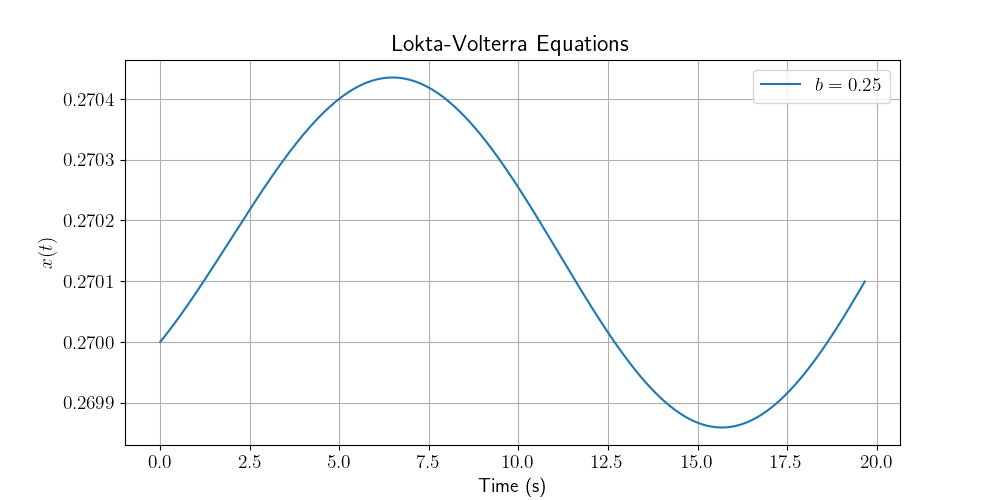
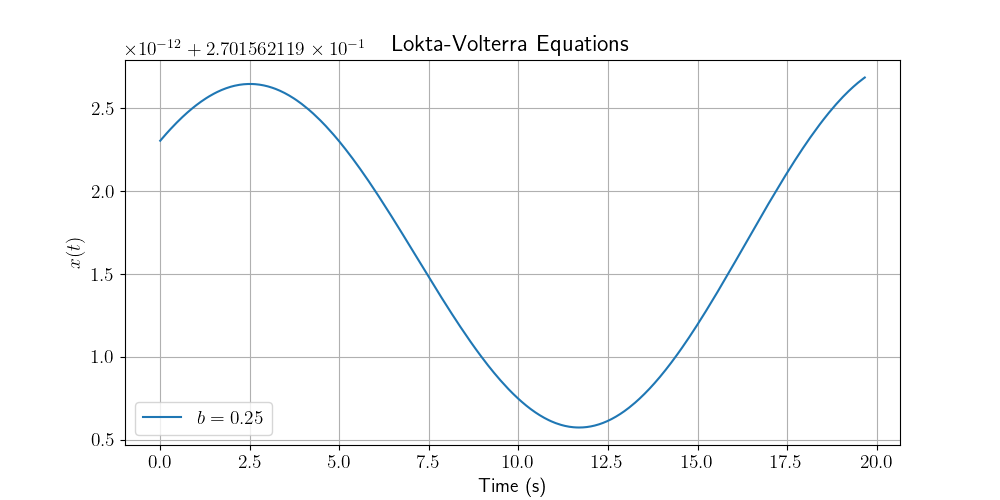
Generalised numerical shooting for any order ODE

diff --git a/numerical_methods.py b/numerical_methods.py
@@ -16,9 +16,7 @@ For log error graph, use log space for time
 
 import matplotlib.pyplot as plt
 import numpy as np
-
-
-plt.rcParams.update({"text.usetex": True, 'font.size': 14}) # Use Latex fonts for all matplotlib.pyplot plots
+from scipy.optimize import fsolve
 
 
 def graph_format(x_label, y_label, title, filename):
@@ -30,6 +28,7 @@ def graph_format(x_label, y_label, title, filename):
         title (string): title of plot
         filename (string): name given to saved .png plot
     """
+    
     
     plt.grid()
     plt.title(title)
@@ -71,6 +70,7 @@ def eurler_step(f, x, t, h):
         float: approximation for next x
         float: next timestep 
     """
+    
     if type(x) == np.float64:
         x = [x]
     
@@ -168,12 +168,12 @@ def solve_to(f, x0, t1, t2, h, method, deltat_max=0.5):
         array: approximation of ODE solution
         array: timestpes of ODE solution
     """
-    
+        
     
     if h > deltat_max:
         raise ValueError("Given step-size exceeds maximum step-size")
     
-    
+
     if isinstance(x0, (int, float)):
         x0 = [x0]
     elif (x0, (list, np.array)):
@@ -188,7 +188,7 @@ def solve_to(f, x0, t1, t2, h, method, deltat_max=0.5):
         print(f"Function and initial condition dimesions do not match")
         quit()
       
-        
+          
     no_steps = int((t2 - t1)/h)
     t = np.zeros(no_steps)
     t[0], t[-1] = t1, t2
@@ -209,7 +209,8 @@ def solve_to(f, x0, t1, t2, h, method, deltat_max=0.5):
                     x_new, t_new = eurler_step(f, args, t[i], h)
                     for k in range(len(x_new)):
                         x[k][i+1] = x_new[k]
-                    t[i+1] = t_new 
+                    t[i+1] = t_new
+                 
                           
         case "RK4First":
             x = np.zeros(len(t))
@@ -236,3 +237,63 @@ def solve_to(f, x0, t1, t2, h, method, deltat_max=0.5):
                     
     return x, t
 
+
+def shooting(ode, x0, period, phase, method="Euler"):
+    """Numerical shooting to solve for ODE limit cycles
+
+    Args:
+        ode (function): ODE to be solved. lambda t, x_1, ..., x_n : f(x_1, ..., x_n) 
+        x0 (float, array-like): Initial condition guess x_0 = a, or vector x = [a_1, ..., a_n]
+        period (float): Period guess 
+        phase (function): Phase-condition. lambda p (= x1, ..., x_n): f(x_1, ..., x_n)
+        method (string, optional): Method used to solve ODE. Defaults to "Euler". 
+
+    Returns:
+        array: solution to ODE with found limit cycle conditions
+        array: timesteps of ODE solution
+        array: conditions of limit cycle (as seen from output)
+    """
+    
+    
+    try:
+        ode(0, *x0)
+    except TypeError:
+        print(f"Function and initial condition dimesions do not match")
+        quit()
+        
+        
+    if isinstance(x0, (int, float)):
+        x0 = [x0]
+    elif (x0, (list, np.array)):
+        x0 = x0
+    else:
+        raise TypeError("x0 is incorrect data type")
+        
+        
+    def root_ode(u):
+        x0 = u[0:-1]
+        t = u[-1]
+        sols, time = solve_to(ode, x0, 0, t, 0.01, method)
+        f = np.zeros(len(sols))
+        
+        for ind, sol in enumerate(sols):
+            f[ind] = sol[0] - sol[-1]
+        
+        p = np.array(phase(x0))
+        
+        return np.append(f, p)
+    
+    
+    x0 = x0 + [period]    
+    x0, info, ier, msg = fsolve(root_ode, x0, full_output=True)
+    period = x0[-1]
+    
+    if ier == 1:
+        print(f"Root finder found the solution x={x0} after {info['nfev']} function calls")         
+    else:
+        print(f"Root finder failed with error message: {msg}")
+        return
+    
+    x, t = solve_to(ode, x0[0:-1], 0, period, 0.01, method)
+    
+    return x, t, x0

diff --git a/week15.py b/week15.py
@@ -20,6 +20,9 @@ import matplotlib.pyplot as plt
 from scipy.optimize import fsolve
 
 
+plt.rcParams.update({"text.usetex": True, 'font.size': 14}) # Use Latex fonts for all matplotlib.pyplot plots
+
+
 def week15_excersises():
     
     def lokta_volterra(t, x, y, b):
@@ -45,28 +48,17 @@ def week15_excersises():
     
     # I.C (0.39, 0.30) produces limit cycle period of ~19s (b = 0.25)
     
-    def num_shooting(u):
-        x, y, t = u
+    x0 = [0.39, 0.30]
+    
+    def phase(p):
         a, d = 1, 0.1
-        b = 0.2
+        x, y = p
+        p = x*(1 - x) - (a*x*y)/(d + x)
         
-        sol, time = nm.solve_to(lambda t, x, y: lokta_volterra(t, x, y, 0.25), (x , y), 0, t, 0.01, "Euler")
-        f1 = sol[0][0] - sol[0][-1]
-        f2 = sol[1][0] - sol[1][-1]
-        p = x*(1 - x) - (a*x*y)/(d + x) # Phase Condition
+        return p
         
-        return f1, f2, p
-    
-    x0 = [0.39, 0.30, 19]
-    x0, info, ier, msg = fsolve(num_shooting, x0, full_output=True)
-    if ier == 1:
-        print(f"Root finder found the solution x={x0} after {info['nfev']} function calls; the norm of the final residual is {np.linalg.norm(info['fvec'])}")         
-    else:
-        print(f"Root finder failed with error message: {msg}")
-        return
-    
-    x0 = np.around(x0, decimals=3)
-    x, t = nm.solve_to(lambda t, x, y: lokta_volterra(t, x, y, 0.25), (x0[0] , x0[1]), 0, x0[2], 0.01, "Euler")
+    x0 = [0.39, 0.30]
+    x, t, x0 = nm.shooting(lambda t, x, y: lokta_volterra(t, x, y, 0.25), x0, 19, phase)
     
     plt.figure(3, figsize=(10, 5))
     plt.plot(t, x[0], label="$b = 0.25$")
@@ -75,7 +67,6 @@ def week15_excersises():
     plt.figure(4, figsize=(10, 5))
     plt.plot(x[0], x[1], label="$b = 0.25$")
     nm.graph_format("$x(t)$", "$\dot{x}(t)$", "Lokta-Volterra Equations", "Lokta_Volterra_Cycle_Exact")
-
 
 
 week15_excersises()

diff --git a/week14.py b/week14.py
@@ -16,6 +16,9 @@ import matplotlib.pyplot as plt
 import numpy as np
 
 
+plt.rcParams.update({"text.usetex": True, 'font.size': 14}) # Use Latex fonts for all matplotlib.pyplot plots
+
+
 def graph_format(x_label, y_label, title, filename):
     
     plt.grid()
